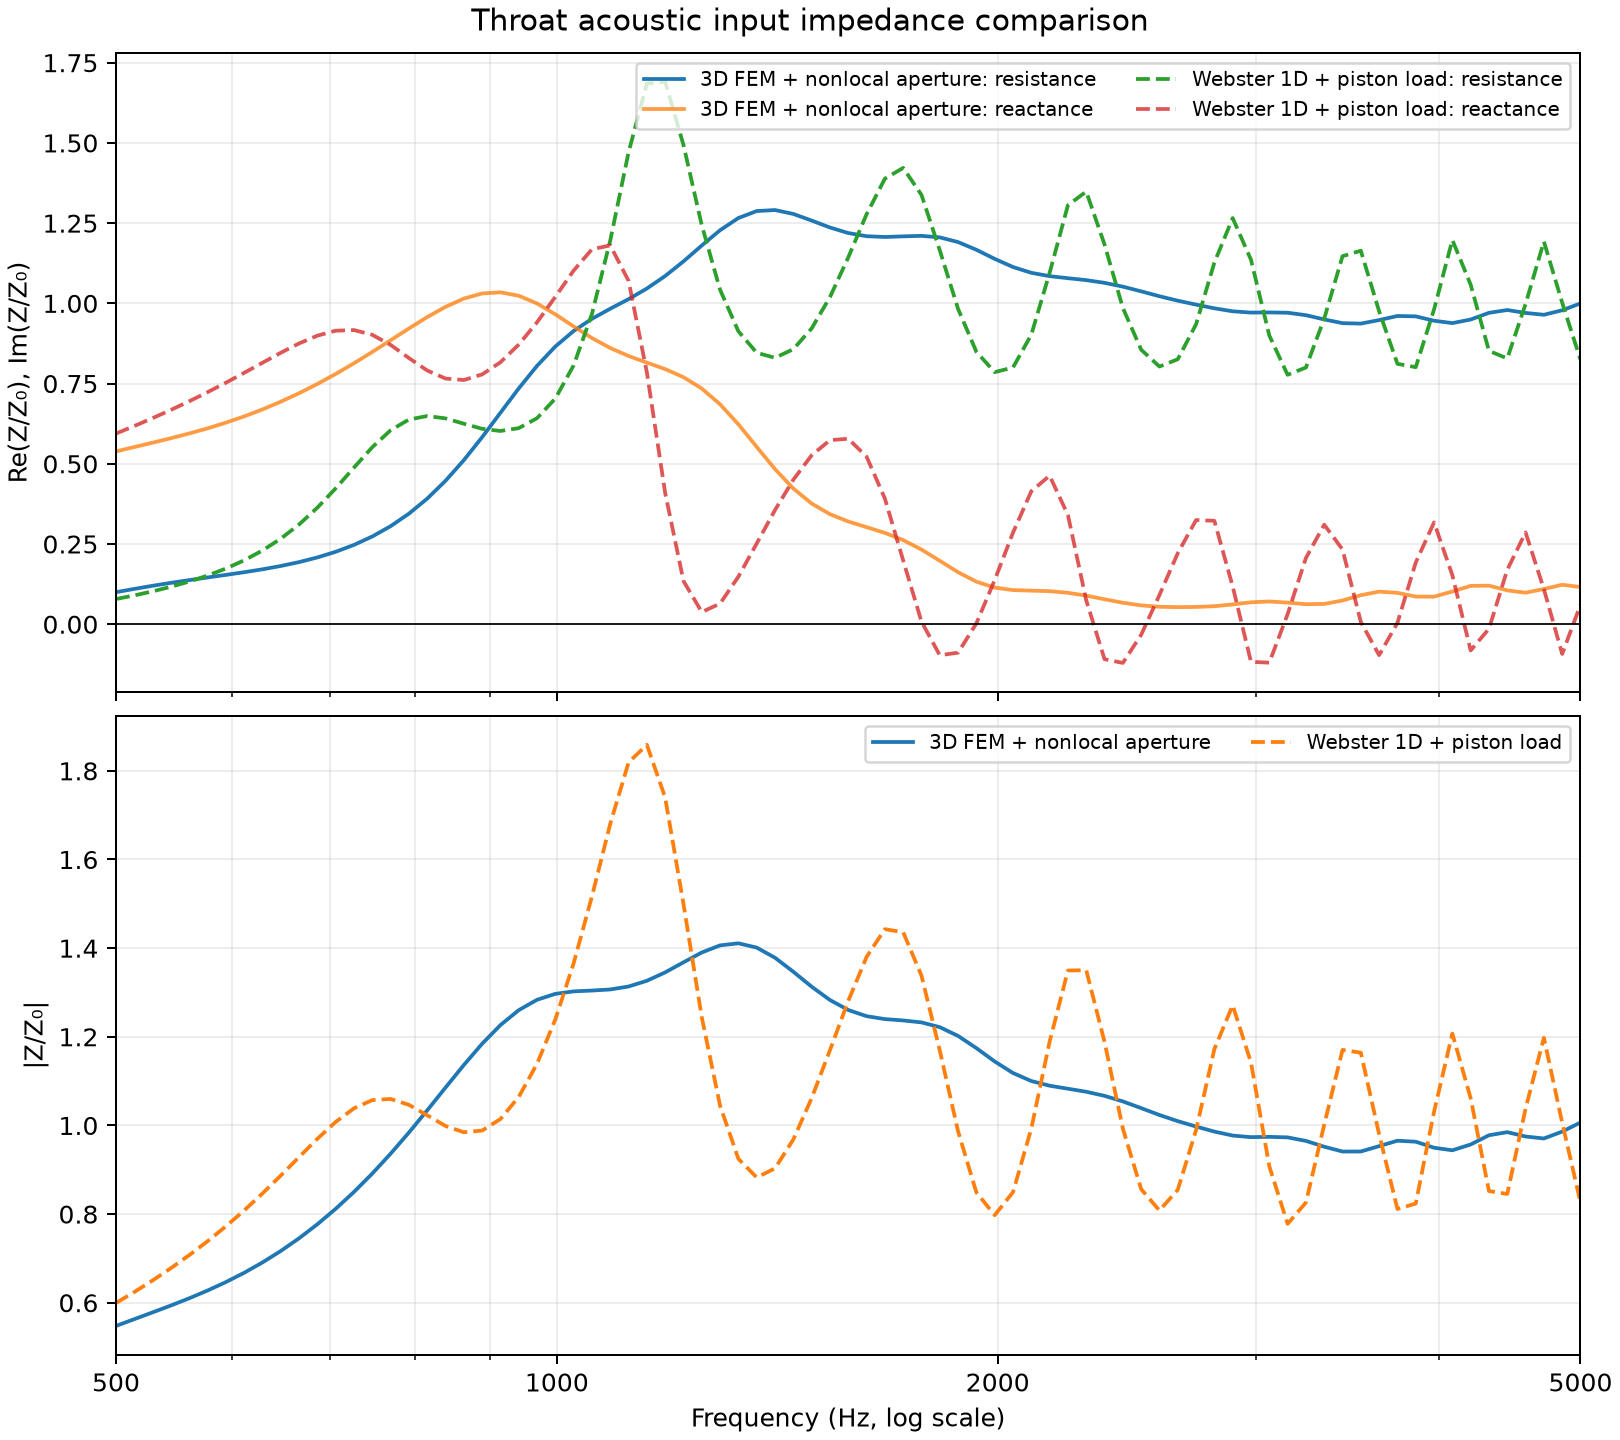
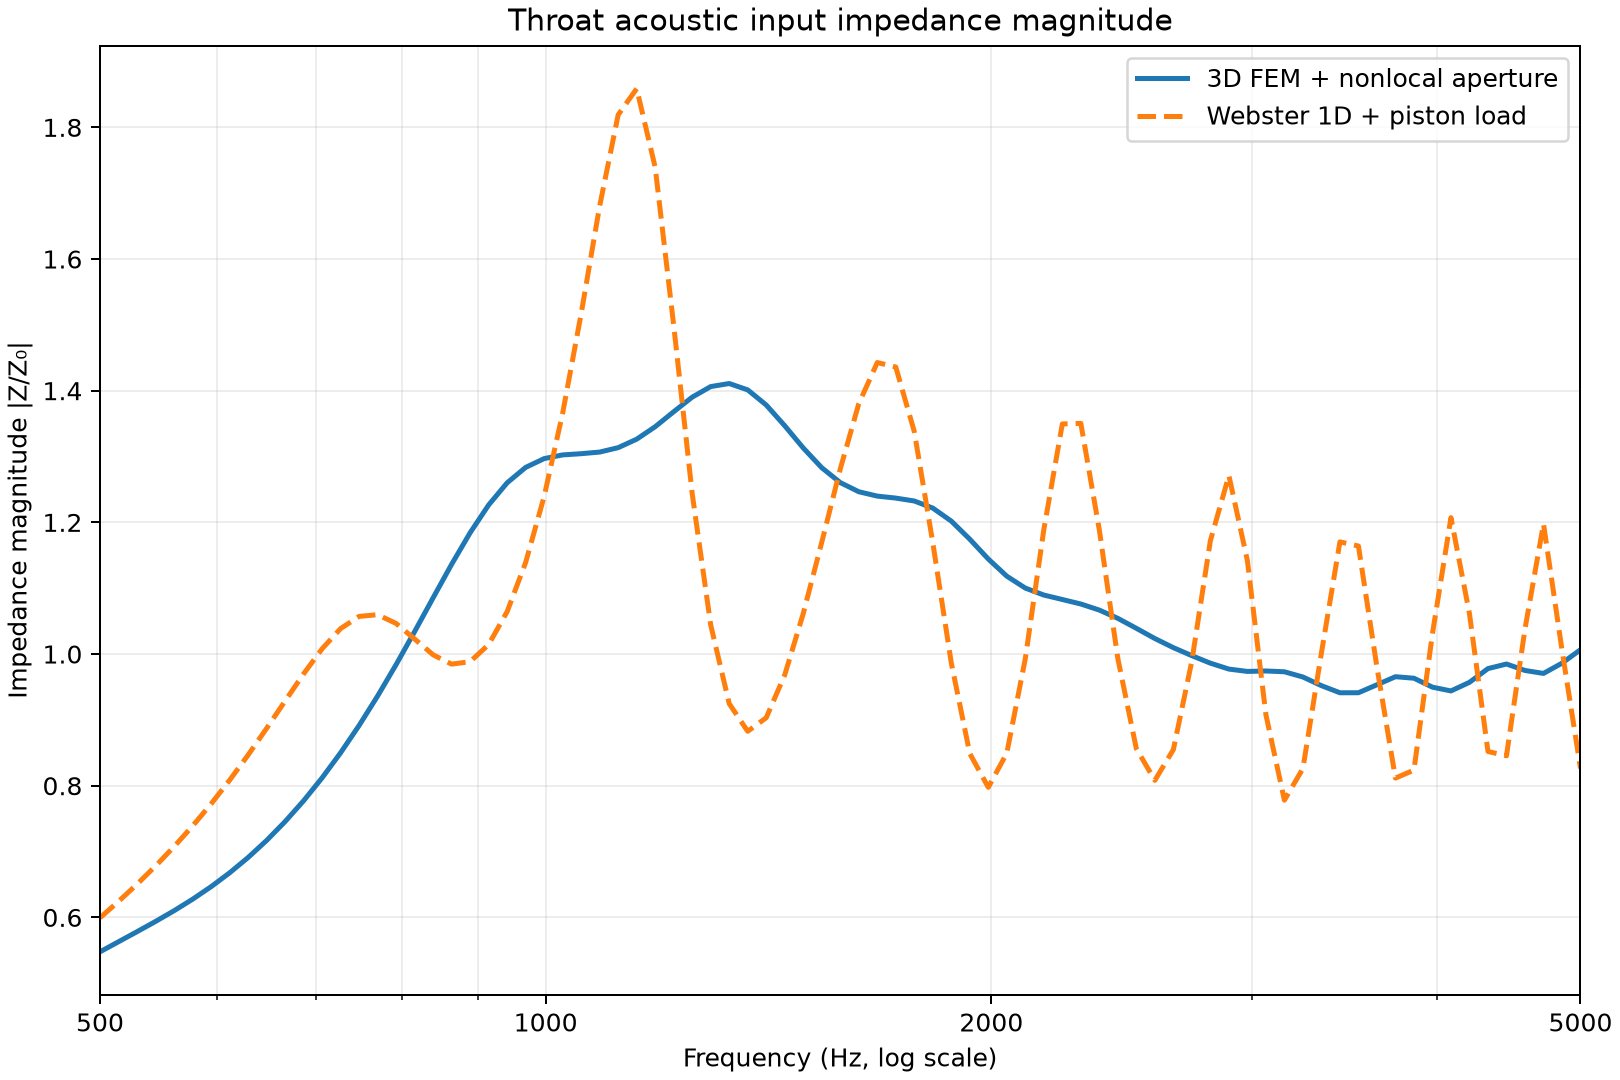
Standardize impedance plots on magnitude

diff --git a/analysis/3d_comparison/generate_comparison.py b/analysis/3d_comparison/generate_comparison.py
@@ -167,22 +167,16 @@ def coverage_plot(frequencies: np.ndarray, angles: np.ndarray, matrices: list[np
 
 def impedance_plot(frequencies: np.ndarray, fem_z: np.ndarray, webster_z: np.ndarray,
                    fem_z0: float, webster_z0: float, path: Path) -> None:
-    figure, axes = plt.subplots(2, 1, figsize=(9, 8), sharex=True, constrained_layout=True)
+    figure, axis = plt.subplots(figsize=(9, 6), constrained_layout=True)
     for impedance, z0, label, style in ((fem_z, fem_z0, "3D FEM + nonlocal aperture", "-"),
                                         (webster_z, webster_z0, "Webster 1D + piston load", "--")):
         normalized = impedance / z0
-        axes[0].plot(frequencies, normalized.real, style, label=f"{label}: resistance")
-        axes[0].plot(frequencies, normalized.imag, style, alpha=0.78,
-                     label=f"{label}: reactance")
-        axes[1].plot(frequencies, np.abs(normalized), style, label=label)
-    axes[0].axhline(0, color="black", linewidth=0.7)
-    axes[0].set_ylabel("Re(Z/Z₀), Im(Z/Z₀)")
-    axes[1].set_ylabel("|Z/Z₀|")
-    axes[1].set_xlabel("Frequency (Hz, log scale)")
-    for axis in axes:
-        set_frequency_axis(axis)
-        axis.legend(fontsize=8, ncol=2)
-    figure.suptitle("Throat acoustic input impedance comparison")
+        axis.plot(frequencies, np.abs(normalized), style, linewidth=2.0, label=label)
+    axis.set_ylabel("Impedance magnitude |Z/Z₀|")
+    axis.set_xlabel("Frequency (Hz, log scale)")
+    set_frequency_axis(axis)
+    axis.legend()
+    axis.set_title("Throat acoustic input impedance magnitude")
     figure.savefig(path, dpi=180, facecolor="white")
     plt.close(figure)
 

diff --git a/tests/bem_plan.md b/tests/bem_plan.md
@@ -210,6 +210,9 @@ problem, not against an unrelated generic Helmholtz benchmark.
   contour wherever the plotted quantity makes that threshold meaningful.
   Angular axes use 15-degree increments (0, 15, 30, 45, 60, 75, 90 and
   signed counterparts) unless a task explicitly requires finer labels.
+- Impedance figures plot magnitude only by default. Do not add separate
+  resistance, reactance, or phase traces unless a task explicitly requests
+  them; retain complex impedance in exported numerical data.
 - Checkpoint `0ba9add` improves the mixed matrix-free preconditioner by applying
   the pressure-to-mouth trace coupling in a lower block-triangular solve. On the
   accepted mesh at 5 kHz this reduced GMRES from 992 iterations / 313 seconds to

diff --git a/analysis/3d_comparison/README.md b/analysis/3d_comparison/README.md
@@ -22,9 +22,9 @@ or exterior-body scattering.
 
 ![Impedance comparison](figures/impedance_comparison.png)
 
-Impedance is normalized by each model's own throat characteristic impedance,
-which avoids confusing the small mesh/authored throat-area difference with an
-acoustic-model difference.
+Only impedance magnitude is plotted. It is normalized by each model's own
+throat characteristic impedance, which avoids confusing the small
+mesh/authored throat-area difference with an acoustic-model difference.
 
 ![Metrics](figures/metrics.png)
 
